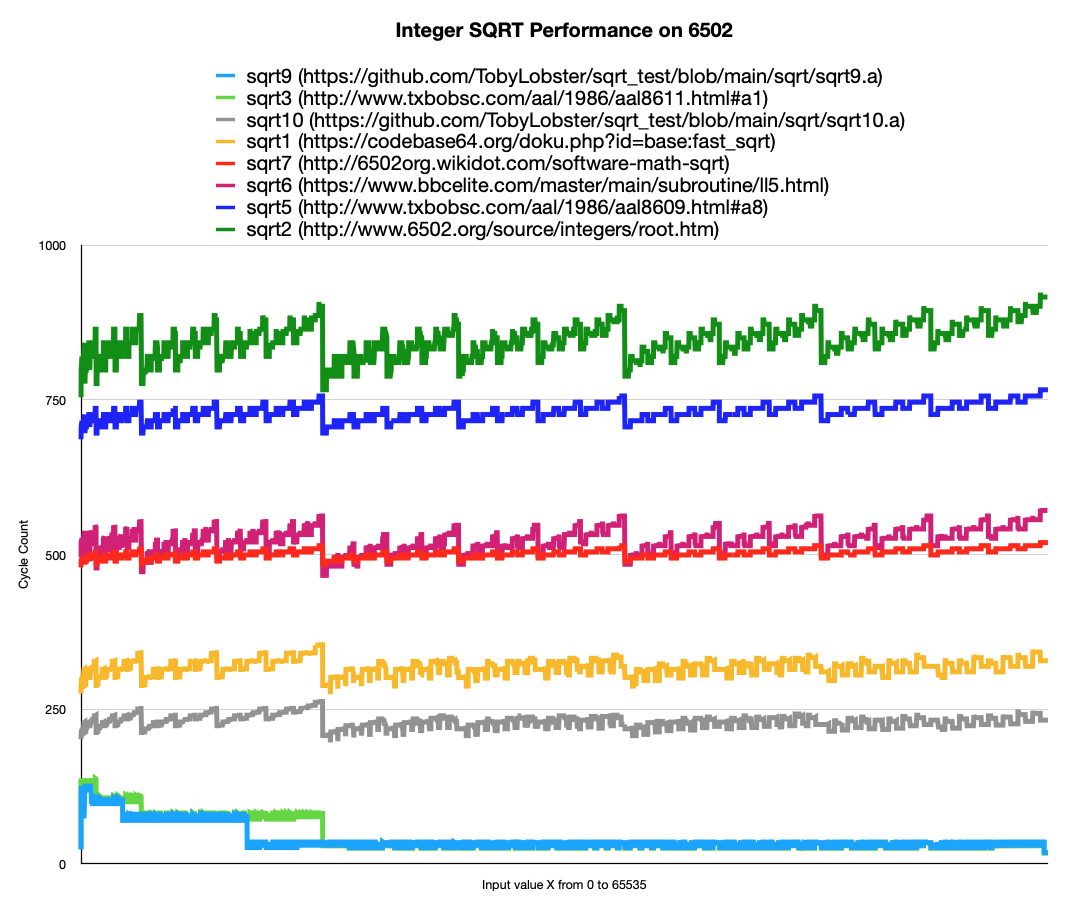
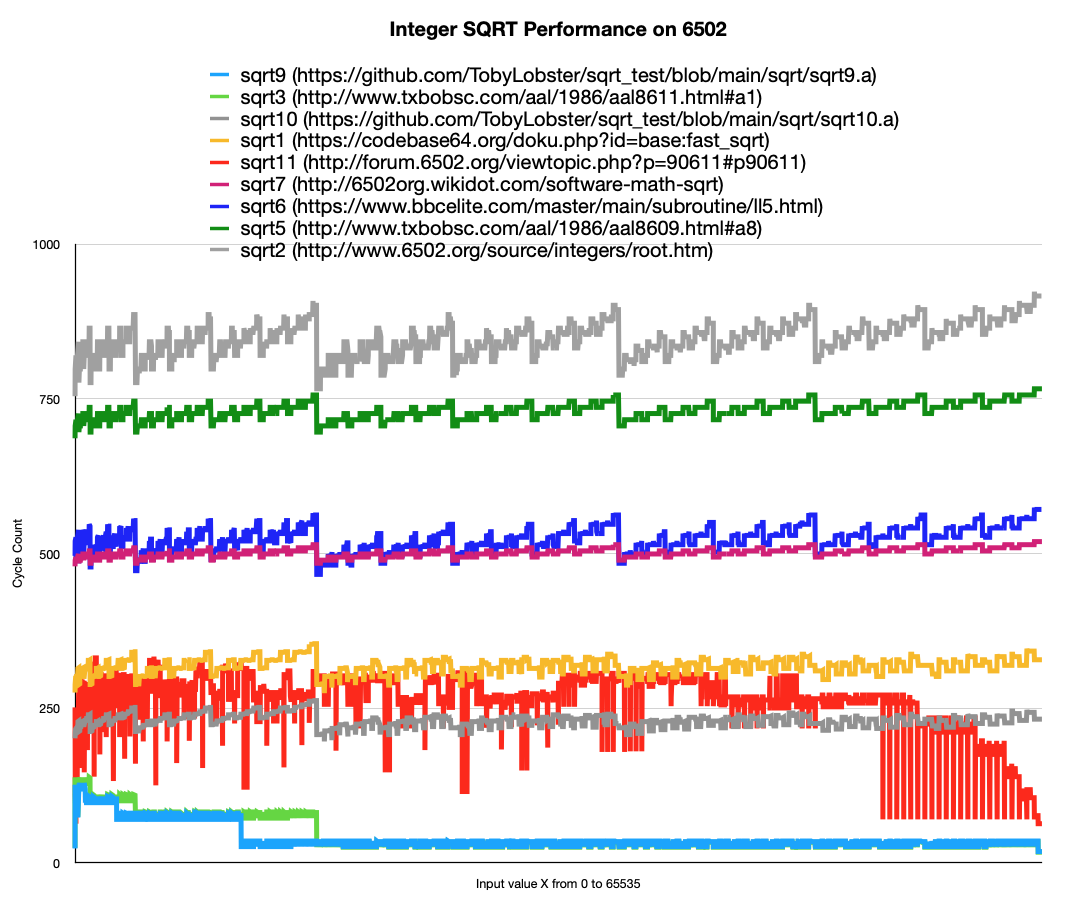
Tweaked documentation and added sqrt11 to graph

Changed region(s): [[0.0, 0.2772, 0.9915, 0.9857], [0.1859, 0.0, 0.8366, 0.308], [0.031, 0.2464, 0.062, 0.2772]]

diff --git a/readme.md b/readme.md
@@ -18,8 +18,11 @@ All implementations have been sourced from the internet and reformatted for the 
 | sqrt5.a  | http://www.txbobsc.com/aal/1986/aal8609.html#a8                  |                                                |
 | sqrt6.a  | https://www.bbcelite.com/master/main/subroutine/ll5.html         | from the BBC Micro game Elite.                 |
 | sqrt7.a  | http://6502org.wikidot.com/software-math-sqrt                    |                                                |
-| sqrt9.a  | https://github.com/TobyLobster/sqrt_test/blob/main/sqrt/sqrt9.a  | my version of sqrt3.a tweaked for performance. |
+| sqrt9.a  | https://github.com/TobyLobster/sqrt_test/blob/main/sqrt/sqrt9.a  | a table based solution, my version of sqrt3.a tweaked for performance. |
 | sqrt10.a | https://github.com/TobyLobster/sqrt_test/blob/main/sqrt/sqrt10.a | my version of sqrt1.a tweaked for performance. |
+| sqrt11.a | https://github.com/TobyLobster/sqrt_test/blob/main/sqrt/sqrt11.a | a table based solution, using binary search. from [here](http://forum.6502.org/viewtopic.php?p=90611#p90611) fixed and tweaked for performance. |
+
+I've omitted implementations sqrt4.a and sqrt8.a as they calculate squares by adding successive odd numbers. This turns out to be extremely slow for anything but small numbers.
 
 ### Python Script
 After assembling each file using [acme](https://github.com/meonwax/acme), we use [py65mon](https://github.com/mnaberez/py65/blob/master/docs/index.rst) to load and execute the binary 6502, check the results are accurate and record the cycle count.
@@ -27,7 +30,7 @@ The results are then output to a CSV file for graphing in a spreadsheet.
 
 ### Results
 
-All algorithms proved to be correct. We graph the cycle count of each algorithm over all possible inputs.
+All algorithms provide the correct results. We graph the cycle count of each algorithm over all possible inputs.
 
 ![SQRT Performance Comparison](./sqrt.png)
 
@@ -41,6 +44,7 @@ All algorithms proved to be correct. We graph the cycle count of each algorithm 
 | sqrt7.a  |             42 |               519 |               501.5 |
 | sqrt9.a  |            847 |               129 |                39.8 |
 | sqrt10.a |            169 |               262 |               229.7 |
+| sqrt11.a |            595 |               333 |               268.8 |
 
 All cycle counts include the final RTS, but not any initial JSR. Add 6 cycles for an initial 'JSR sqrt' instruction.
 
